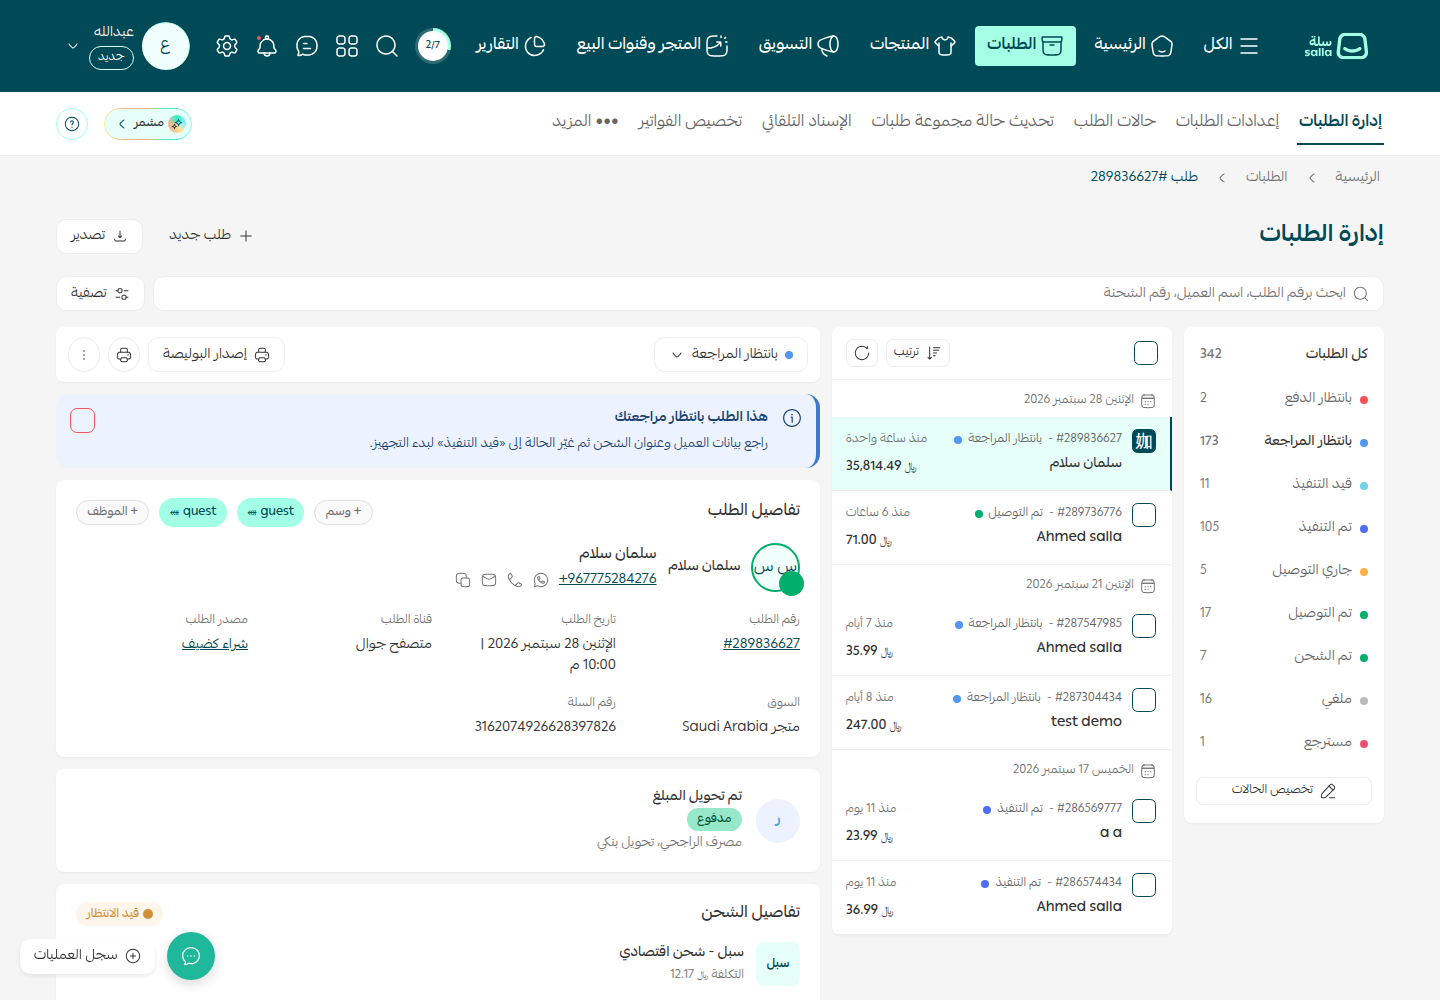
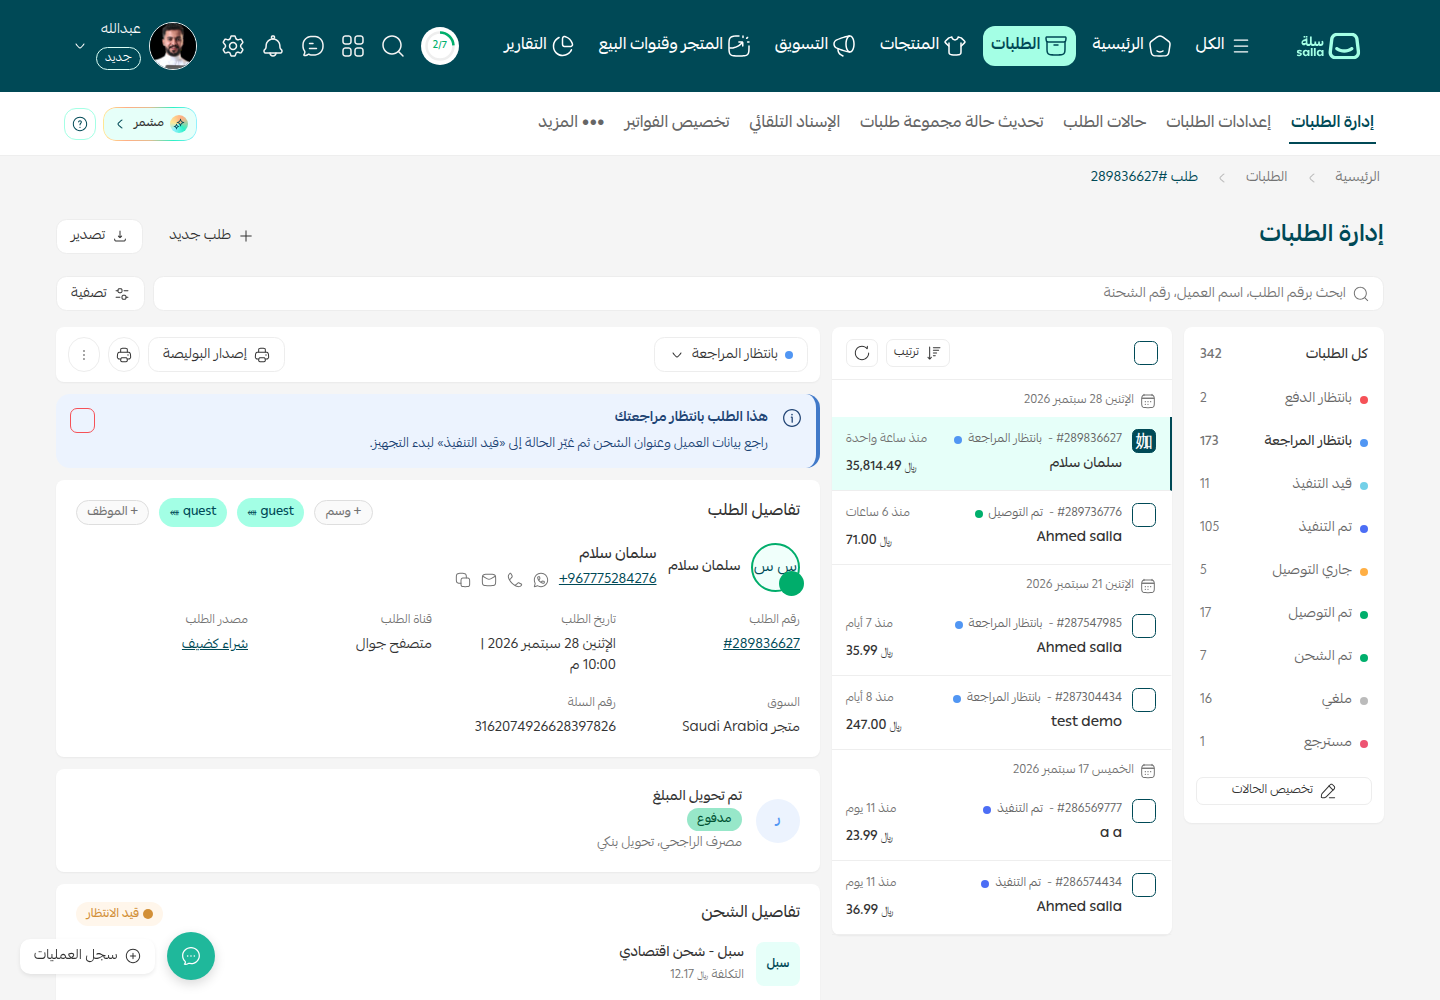
Rebuild demo header to match the Figma Header export (1440 + 1200 variants)
- demo/index.html: 92 px bar with 64 px gutters, 40 px radius-12 tab pills,
  #F4F4F4 icon cluster, SVG setup ring (white disc, #EEEEEE track, #00AF6C
  arc), 48 px photo avatar with name + 'جديد' pill, rounded-square help
  button, 'مشمر' pill with angular-gradient border
- ≤1200 px variant from the export's second frame: 88 px bar, 24 px gutters,
  name hidden, search / apps / messages collapsed into a '⋯' button
- demo/assets/avatar.jpg cropped from the export; docs/images refreshed
- changelog + demo README describe the measured geometry

Claude-Session: https://claude.ai/code/session_014wBNWosgzeruTe94fxc7kx

diff --git a/demo/index.html b/demo/index.html
@@ -20,47 +20,59 @@
     .icon svg { width: 100%; height: 100%; }
     .icon--sm { width: 16px; height: 16px; }
 
-    /* ---- Header (Figma: Header / --device=desktop, node 15895:36794) ---- */
+    /* ---- Header (Figma: Header, node 15895:36794 — figma/exports/header/header.svg, 1440 + 1200 variants) ---- */
+    :root { --hd-pad: 64px; --hd-h: 92px; }
     .hd-top { background: var(--salla-background-primary-primary, #004956); color: var(--salla-text-gray-white, #fff);
-      display: flex; align-items: center; gap: var(--salla-spacing-sizes-3xl, 20px); padding: var(--salla-spacing-base, 16px) var(--salla-spacing-sizes-9xl, 56px); min-height: 92px; box-sizing: border-box; }
+      display: flex; align-items: center; gap: var(--salla-spacing-sizes-3xl, 20px); padding: 0 var(--hd-pad); height: var(--hd-h); box-sizing: border-box; }
     .hd-top .logo { width: 95.4px; height: 40px; flex: none; display: block; }
-    .hd-tabs { flex: 1; min-width: 0; display: flex; align-items: center; gap: var(--salla-spacing-2xs, 10px); overflow-x: auto; scrollbar-width: none; }
-    .hd-tab { display: flex; align-items: center; gap: var(--salla-spacing-5xs, 4px); padding: var(--salla-spacing-3xs, 8px) var(--salla-spacing-base, 16px); border-radius: var(--salla-radius-md, 4px);
+    /* primary tabs: 40px pills, radius 12, 8px gap, active = mint pill */
+    .hd-tabs { flex: 1; min-width: 0; display: flex; align-items: center; gap: var(--salla-spacing-sizes-sm, 8px); overflow: hidden; }
+    .hd-tab { display: flex; align-items: center; gap: var(--salla-spacing-5xs, 4px); height: 40px; padding: var(--salla-spacing-3xs, 8px); border-radius: 12px; box-sizing: border-box;
       color: var(--salla-text-gray-white, #fff); text-decoration: none; font-weight: 500; font-size: 16px; line-height: 24px; white-space: nowrap; }
     .hd-tab .icon { width: 24px; height: 24px; }
+    .hd-tab--all .icon { width: 20px; height: 20px; margin: 0 2px; }
     .hd-tab:hover { background: rgba(255,255,255,.08); }
     .hd-tab.is-active { background: var(--salla-background-secondary-seconadry, #a4ffe5); color: var(--salla-text-primary-primary, #004956); font-weight: 700; }
+    /* tools: setup ring, icon buttons, account */
     .hd-tools { display: flex; align-items: center; gap: var(--salla-spacing-sizes-2xl, 16px); flex: none; }
+    .hd-ring { position: relative; width: 38px; height: 38px; border-radius: 999px; background: #fff; flex: none; display: grid; place-items: center; }
+    .hd-ring svg { position: absolute; inset: 4px; width: 30px; height: 30px; transform: rotate(-90deg); }
+    .hd-ring circle { fill: none; stroke-width: 2.5; }
+    .hd-ring .track { stroke: var(--salla-border-default, #eee); }
+    .hd-ring .arc { stroke: var(--salla-text-status-success-primary, #00af6c); stroke-dasharray: var(--ring-dash, 24.2) 100; }
+    .hd-ring span { position: relative; font-size: 10px; line-height: 1; font-weight: 500; color: var(--salla-text-status-success-primary, #00af6c); }
     .hd-icons { display: flex; align-items: center; gap: var(--salla-spacing-sizes-2xl, 16px); }
-    .hd-icons a { position: relative; display: inline-flex; color: #fff; }
+    .hd-icons a { display: inline-flex; color: #f4f4f4; }
     .hd-icons .icon { width: 24px; height: 24px; }
-    .hd-icons .dot { position: absolute; top: 0; inset-inline-end: 0; width: 8px; height: 8px; border-radius: 999px; background: var(--salla-background-status-danger-primary, #f55157); border: 2px solid #004956; }
-    .hd-ring { width: 36px; height: 36px; border-radius: 999px; flex: none; display: grid; place-items: center; font-size: 10px; font-weight: 500; color: #004956;
-      background: conic-gradient(var(--salla-background-secondary-seconadry, #a4ffe5) calc(2 / 7 * 360deg), rgba(255,255,255,.18) 0); }
-    .hd-ring span { width: 30px; height: 30px; border-radius: 999px; background: #fff; display: grid; place-items: center; }
-    .hd-user { display: flex; align-items: center; gap: var(--salla-spacing-sizes-sm, 8px); padding: var(--salla-spacing-5xs, 4px) var(--salla-spacing-sizes-sm, 8px); border-radius: var(--salla-radius-sm, 8px); border: 1px solid transparent; cursor: pointer; }
-    .hd-user:hover { border-color: rgba(255,255,255,.35); }
-    .hd-user__text { display: flex; flex-direction: column; align-items: flex-start; gap: 2px; }
-    .hd-user__name { font-size: 14px; line-height: normal; color: #f8f8f8; }
-    .hd-user__tag { display: inline-flex; align-items: center; min-height: 24px; max-height: 24px; padding: var(--salla-spacing-sizes-2xs, 4px) var(--salla-spacing-sizes-sm, 8px); border: 1px solid var(--salla-border-seconadry-hover, #dbfff6); border-radius: 140px; font-size: 12px; line-height: 16px; color: #fff; box-sizing: border-box; }
-    .hd-user .icon { width: 16px; height: 16px; }
-    .hd-user s-avatar { width: 48px; height: 48px; flex: none; overflow: hidden; border-radius: 999px; }
-    @media (max-width: 1500px) { .hd-top { gap: 16px; } .hd-tabs { gap: 6px; } .hd-tab { padding-left: 12px; padding-right: 12px; } }
+    .hd-icons .hd-more { display: none; }
+    .hd-user { display: flex; align-items: center; gap: var(--salla-spacing-sizes-sm, 8px); padding: 0 var(--salla-spacing-sizes-sm, 8px); cursor: pointer; border-radius: 12px; }
+    .hd-user__avatar { width: 48px; height: 48px; flex: none; border-radius: 999px; box-sizing: border-box; border: 1px solid var(--salla-border-default, #eee); background: #fff; object-fit: cover; display: block; }
+    .hd-user__text { display: flex; flex-direction: column; align-items: flex-start; gap: var(--salla-spacing-sizes-sm, 8px); }
+    .hd-user__name { font-size: 14px; line-height: 17px; color: #f8f8f8; }
+    .hd-user__tag { display: inline-flex; align-items: center; height: 23px; padding: 0 var(--salla-spacing-sizes-sm, 8px); border: 1px solid var(--salla-border-seconadry-hover, #dbfff6); border-radius: 140px; font-size: 12px; line-height: 16px; color: #fff; box-sizing: border-box; }
+    .hd-user > .icon { width: 16px; height: 16px; color: #fff; }
 
-    /* Header Subcategory (node 18204:40931) */
-    .hd-sub { background: var(--salla-background-default-white, #fff); height: 64px; box-sizing: border-box; padding: var(--salla-spacing-xs, 12px) var(--salla-spacing-sizes-9xl, 56px);
+    /* Header Subcategory (node 18204:40931): 64px white bar, underlined tabs (right), help + مشمر (left) */
+    .hd-sub { background: var(--salla-background-default-white, #fff); height: 64px; box-sizing: border-box; padding: var(--salla-spacing-xs, 12px) var(--hd-pad);
       display: flex; align-items: center; gap: 24px; border-bottom: 1px solid var(--salla-border-default, #eee); }
     .hd-sub__tabs { flex: 1; min-width: 0; display: flex; align-items: center; gap: var(--salla-spacing-base, 16px); overflow-x: auto; scrollbar-width: none; }
-    .hd-sub__tab { padding: var(--salla-spacing-3xs, 8px) var(--salla-spacing-6xs, 2px); font-size: 16px; line-height: 24px; color: var(--salla-text-gray-light, #666); text-decoration: none; border-bottom: 2px solid transparent; white-space: nowrap; }
+    .hd-sub__tab { height: 40px; box-sizing: border-box; padding: var(--salla-spacing-3xs, 8px) var(--salla-spacing-6xs, 2px); font-size: 16px; line-height: 24px; font-weight: 500; color: var(--salla-text-gray-light, #666); text-decoration: none; border-bottom: 2px solid transparent; white-space: nowrap; }
     .hd-sub__tab.is-active { color: var(--salla-text-primary-link, #004956); font-weight: 700; border-bottom-color: var(--salla-border-primary-link, #004956); }
-    .hd-sub__btns { display: flex; align-items: center; gap: var(--salla-spacing-base, 16px); flex: none; }
-    .hd-help { width: 32px; height: 32px; border-radius: 999px; box-sizing: border-box; border: 1px solid var(--salla-border-seconadry, #a4ffe5); background: #fff; display: grid; place-items: center; color: var(--salla-text-primary-link, #004956); }
+    .hd-sub__btns { display: flex; align-items: center; gap: var(--salla-spacing-sizes-sm, 8px); flex: none; }
+    .hd-help { width: 32px; height: 32px; border-radius: 12px; box-sizing: border-box; border: 1px solid var(--salla-border-seconadry, #a4ffe5); background: #fff; display: grid; place-items: center; color: var(--salla-text-primary-link, #004956); }
     .hd-help .icon { width: 16px; height: 16px; }
-    .hd-moshammer { position: relative; display: inline-flex; align-items: center; gap: var(--salla-spacing-5xs, 4px); min-height: 32px; padding: 4px 6px 4px 10px; border-radius: 140px; background: var(--salla-background-secondary-lighter, #e6fff9); color: #333; font-size: 12px; font-weight: 500; text-decoration: none; isolation: isolate; }
-    .hd-moshammer::before { content: ""; position: absolute; inset: 0; border-radius: inherit; padding: 1px; background: var(--moshammer-gradient, linear-gradient(90deg,#ffe894,#ffaf85 25%,#e4bd90 50%,#2cf2c7 75%,#94f1ff)); -webkit-mask: linear-gradient(#000 0 0) content-box, linear-gradient(#000 0 0); -webkit-mask-composite: xor; mask-composite: exclude; z-index: -1; }
-    .hd-moshammer__spark { width: 18px; height: 18px; border-radius: 999px; display: grid; place-items: center; color: #004956; background: conic-gradient(from 90deg, #92efff, #ffe895 59deg, #ffae83 152deg, #e4bc8f 187deg, #2cf1c6 270deg, #92efff); }
+    .hd-moshammer { position: relative; display: inline-flex; align-items: center; gap: 6px; height: 32px; padding: 7px 8px; box-sizing: border-box; border-radius: 12px; background: var(--salla-background-secondary-lighter, #e6fff9); color: #333; font-size: 12px; line-height: 16px; font-weight: 500; text-decoration: none; isolation: isolate; }
+    .hd-moshammer::before { content: ""; position: absolute; inset: -1px; border-radius: 13px; padding: 1px; background: var(--moshammer-gradient, conic-gradient(from 200deg, #92f0ff, #ffe895 59deg, #ffaf83 152deg, #e4bc8f 187deg, #2cf2c7 270deg, #92f0ff 360deg)); -webkit-mask: linear-gradient(#000 0 0) content-box, linear-gradient(#000 0 0); -webkit-mask-composite: xor; mask-composite: exclude; z-index: -1; }
+    .hd-moshammer__spark { width: 18px; height: 18px; border-radius: 999px; display: grid; place-items: center; color: #004956; background: conic-gradient(from 225deg, #92f0ff, #ffe895 59deg, #ffaf83 152deg, #e4bc8f 187deg, #2cf2c7 270deg, #92f0ff 360deg); }
     .hd-moshammer__spark .icon { width: 12px; height: 12px; }
     .hd-moshammer .chev { width: 16px; height: 16px; color: #004956; }
+
+    /* 1200 variant: 24px gutters, 88px bar, name/tag hidden, search + apps + messages collapse into "⋯" */
+    @media (max-width: 1200px) {
+      :root { --hd-pad: 24px; --hd-h: 88px; }
+      .hd-user__text, .hd-icons .hd-collapse { display: none; }
+      .hd-icons .hd-more { display: inline-flex; }
+    }
 
     /* Breadcrumb row (node 15913:38807) + Page Title row (node 18204:42660) */
     .hd-crumbs { display: flex; align-items: center; gap: var(--salla-spacing-3xs, 8px); padding: var(--salla-spacing-3xs, 8px) var(--salla-spacing-sizes-9xl, 56px); }
@@ -71,7 +83,7 @@
     .hd-title h1 { flex: 1; min-width: 0; margin: 0; padding: var(--salla-spacing-5xs, 4px) 0; font-size: 24px; line-height: 32px; font-weight: 700; color: var(--salla-text-primary-primary, #004956); }
     .hd-title__btns { display: flex; align-items: center; gap: var(--salla-spacing-xs, 12px); }
 
-    @media (max-width: 900px) { .hd-top, .hd-sub, .hd-crumbs, .hd-title, .page { padding-left: 16px; padding-right: 16px; } .hd-user__text, .hd-icons a:nth-child(n+3) { display: none; } }
+    @media (max-width: 900px) { :root { --hd-pad: 16px; } .hd-crumbs, .hd-title, .page { padding-left: 16px; padding-right: 16px; } .hd-ring { display: none; } }
 
     /* Page */
     .page { padding: 0 var(--salla-spacing-sizes-9xl, 56px) 96px; }
@@ -163,7 +175,7 @@
 </defs>
 </svg></a>
       <nav class="hd-tabs" aria-label="القائمة الرئيسية">
-        <a class="hd-tab" href="#"><span class="icon" data-icon="menu-01"></span>الكل</a>
+        <a class="hd-tab hd-tab--all" href="#"><span class="icon" data-icon="menu-01"></span>الكل</a>
         <a class="hd-tab" href="#"><span class="icon" data-icon="home-01"></span>الرئيسية</a>
         <a class="hd-tab is-active" href="#"><span class="icon" data-icon="delivery-box-02"></span>الطلبات</a>
         <a class="hd-tab" href="#"><span class="icon" data-icon="shirt-01"></span>المنتجات</a>
@@ -172,16 +184,17 @@
         <a class="hd-tab" href="#"><span class="icon" data-icon="pie-chart"></span>التقارير</a>
       </nav>
       <div class="hd-tools">
-        <span class="hd-ring" title="اكتمال إعداد المتجر 2/7"><span>2/7</span></span>
+        <span class="hd-ring" title="اكتمال إعداد المتجر 2/7" style="--ring-dash: 24.2"><svg viewBox="0 0 30 30" aria-hidden="true"><circle class="track" cx="15" cy="15" r="13.5"/><circle class="arc" cx="15" cy="15" r="13.5" pathLength="100"/></svg><span>2/7</span></span>
         <div class="hd-icons">
-          <a href="#" title="بحث"><span class="icon" data-icon="search-01"></span></a>
-          <a href="#" title="التطبيقات"><span class="icon" data-icon="dashboard-square-01"></span></a>
-          <a href="#" title="المحادثات"><span class="icon" data-icon="message-01"></span></a>
-          <a href="#" title="التنبيهات"><span class="icon" data-icon="notification-01"></span><i class="dot"></i></a>
+          <a class="hd-collapse" href="#" title="بحث"><span class="icon" data-icon="search-01"></span></a>
+          <a class="hd-collapse" href="#" title="التطبيقات"><span class="icon" data-icon="grid-view"></span></a>
+          <a class="hd-collapse" href="#" title="المحادثات"><span class="icon" data-icon="message-01"></span></a>
+          <a href="#" title="التنبيهات"><span class="icon" data-icon="notification-01"></span></a>
           <a href="#" title="الإعدادات"><span class="icon" data-icon="settings-01"></span></a>
+          <a class="hd-more" href="#" title="المزيد"><span class="icon" data-icon="more-horizontal"></span></a>
         </div>
         <div class="hd-user" role="button" tabindex="0" aria-label="حساب عبدالله">
-          <s-avatar label="عبدالله" size="md" initials="" layout="circular"></s-avatar>
+          <img class="hd-user__avatar" src="assets/avatar.jpg" alt="" width="48" height="48">
           <div class="hd-user__text">
             <span class="hd-user__name">عبدالله</span>
             <span class="hd-user__tag">جديد</span>

diff --git a/docs/updates/2026-09-28-component-updates.md b/docs/updates/2026-09-28-component-updates.md
@@ -34,6 +34,24 @@ The one new component set found in the library is **RadioText tabs** (published 
 | **Inputs** | `input/text-input`, `search-input`, `input-with-image`, `input-with-button`, `input-counter`, `amount-input`, `email-input`, `password-input` | [inputs.md](../components/inputs.md), gallery → Input | Shared anatomy: leading icon, placeholder, trailing helper ("وصف مساعد") and language switch `AR ▾`; states default, hover, pre-active (underline), active (blue border `#5196f3`), filled, disabled, each with an error twin (red border). Password adds hidden/visible and a requirements checklist. All map to `s-input` (`type`, slots `start`/`end`, `hasError`, description). |
 | **Select / Dropdown** | `select/dropdown-single`, `dropdown-multiple`, `basic-dropdown-single`, `basic-dropdown-multiple` | [drop-down-list.md](../components/drop-down-list.md), gallery → Select | Trigger states plus the open list: search field with a teal start-bar, options, the selected option in light mint with ✓, and an "أضف: خيار جديد" add-new row. Maps to `s-select` (`searchable`, `multiselect`, `addMissingItem`) and `s-dropdown`. |
 
+## Header — third pass (re-sent `Header` export, 1440 + 1200 variants)
+
+The header export was sent again (identical to `figma/exports/header/header.svg`, which carries both the
+1440 px and the 1200 px frame). `demo/index.html` now follows it pixel-for-pixel instead of the earlier
+approximation:
+
+| Element | Figma | Demo (`demo/index.html`) |
+|---|---|---|
+| Title bar | 92 px high, 64 px side gutters (1200 variant: 88 px, 24 px gutters) | `--hd-h` / `--hd-pad` custom properties, `@media (max-width: 1200px)` switches the variant |
+| Primary tabs | 40 px pills, radius 12, 8 px padding, 8 px gap; active = `#A4FFE5` pill with `#004956` bold text | `.hd-tab` / `.hd-tab.is-active` (was radius 4, 16 px padding) |
+| Tools cluster | 24 px icons on `#F4F4F4` at 16 px gaps: settings, bell, messages, apps grid, search; setup ring 38 px (white disc, `#EEEEEE` track, `#00AF6C` 2/7 arc + label) | `.hd-icons`, `.hd-ring` (SVG ring, `--ring-dash` drives the arc) |
+| Account | 48 px photo avatar with 1 px `#EEEEEE` border, name `#F8F8F8` 14 px over a 23 px "جديد" pill (`#DBFFF6` stroke), 16 px chevron | `.hd-user`, `assets/avatar.jpg` (cropped from the export) |
+| 1200 variant | name + tag hidden; search, apps and messages collapse into a "⋯" button between the avatar and settings | `.hd-collapse` / `.hd-more` |
+| Subcategory bar | 64 px white, 12 px vertical padding; 40 px underlined tabs (2 px `#004956`); help button 32 px **rounded square** (radius 12, `#A4FFE5` stroke); "مشمر" pill 98×32, radius 12, `#E6FFF9` fill, 1 px angular-gradient border (`#FFE895 → #FFAF83 → #E4BC8F → #2CF2C7 → #92F0FF`), sparkle in an 18 px gradient disc; 8 px gap between the two | `.hd-sub`, `.hd-help`, `.hd-moshammer` |
+
+Measured from the SVG path bounding boxes, verified headlessly at 1440 and 1200 px —
+logo, ring, avatar, active pill, help button and pill land within 2 px of the export.
+
 ## Files added
 
 ```

diff --git a/demo/README.md b/demo/README.md
@@ -13,7 +13,7 @@ Both load the real Twilight runtime (`storybook/static/`), the Figma tokens and 
 
 `index.html` composes a full merchant-dashboard screen from the design system:
 
-- **Header**: a 1:1 build of the Figma **Header** component (`figma/exports/header/`, spec in `docs/specs/header.md`): the 92 px title bar (real Salla logo, primary tabs with the mint active pill, setup ring 2/7, action icons, avatar + name + "جديد" tag), the 64 px subcategory row (secondary tabs, "مشمر" gradient pill, help-centre button), the breadcrumb row and the page-title row with its buttons.
+- **Header**: a 1:1 build of the Figma **Header** component (`figma/exports/header/header.svg`, spec in `docs/specs/header.md`): the 92 px title bar with 64 px gutters (real Salla logo, 40 px primary-tab pills with the mint active pill, setup ring 2/7, action icons, 48 px photo avatar + name + "جديد" tag), the 64 px subcategory row (underlined secondary tabs, "مشمر" gradient pill, rounded-square help button), the breadcrumb row and the page-title row with its buttons. Below 1200 px it switches to the export's second frame: 88 px bar, 24 px gutters, name hidden, search / apps / messages folded into a "⋯" button.
 - **Body**: search bar (`s-input` + filter button), the three-column list ↔ detail layout from [docs/patterns.md](../docs/patterns.md) — status rail, grouped order list (`s-checkbox` rows, selected row tint), detail panel with action bar (`s-dropdown`, `s-button`), `s-alert-box`, order/customer card (`s-avatar`, `s-tag`), payment, shipping, products table and a footer with `s-toggle` and actions.
 - **Floating chips**: support bubble and activity-log button.
 
